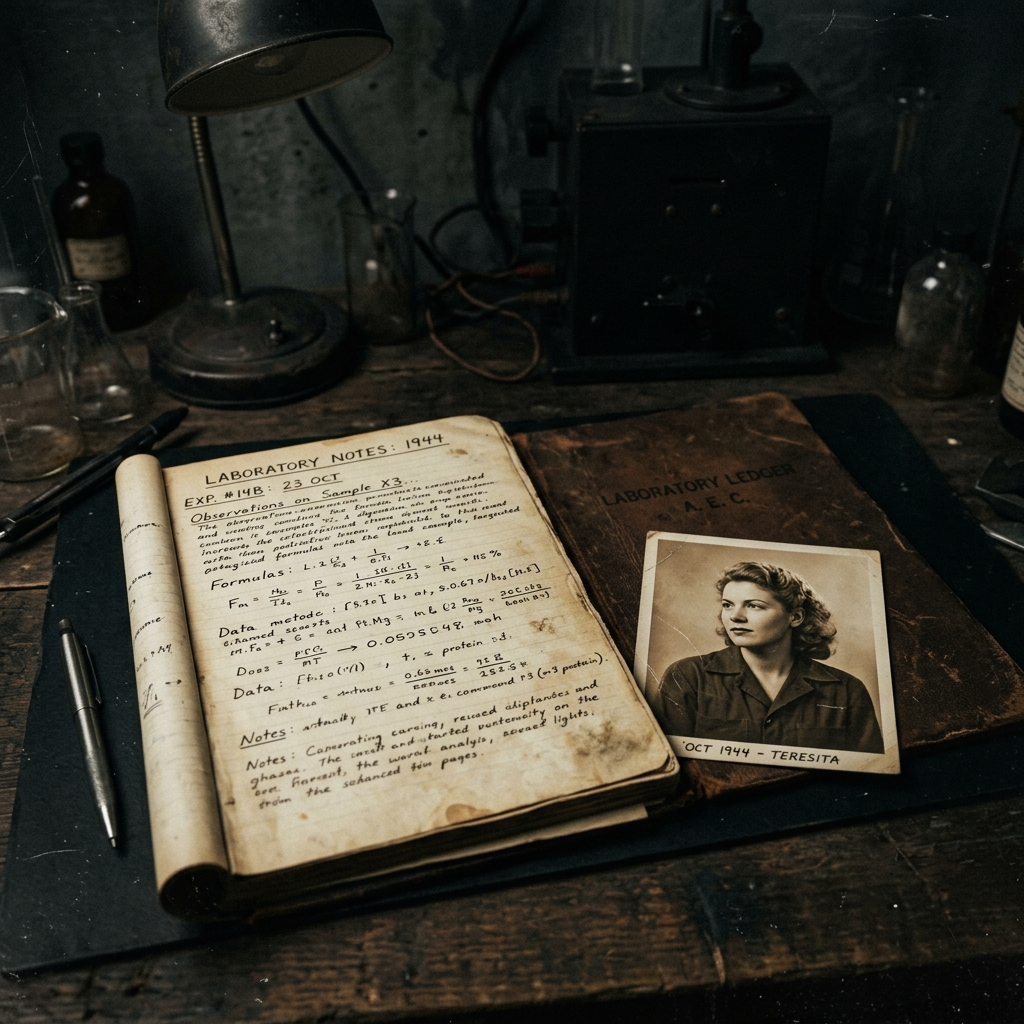
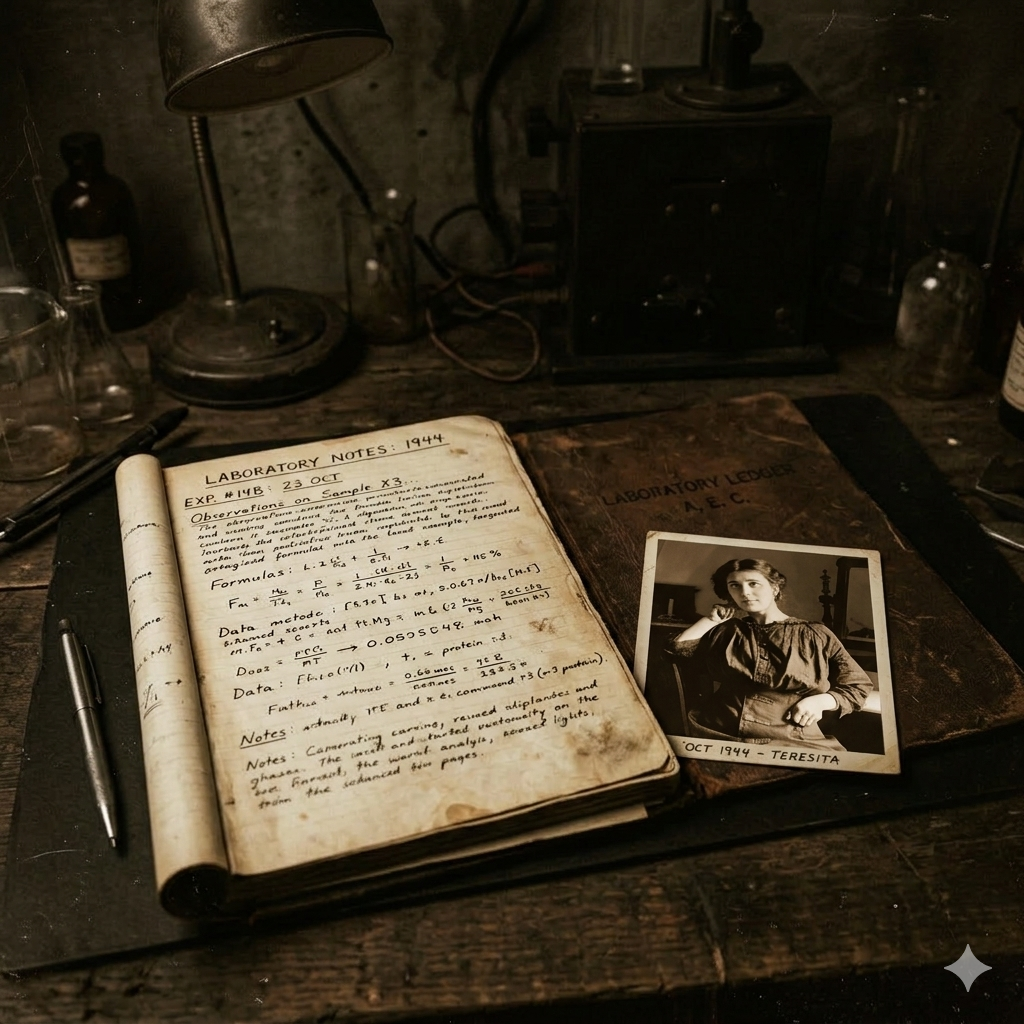
feat(history): refine history visualization and progress indicator
- Refactored StoriaShutter for static background and correct portrait mapping.
- Implemented sticky progress indicator with fade-out in ShippingRitual.
- Updated gennaro portrait mapping for Origins and Resilience archival ledger.
- Synchronized OrderConfirmation template with new archival assets.
- Adjusted z-index layering for Hero and Shutter components.

diff --git a/src/components/storia/StoriaShutter.tsx b/src/components/storia/StoriaShutter.tsx
@@ -20,126 +20,64 @@ function StoriaPhase({
   const start = i / totalPhases;
   const end = (i + 1) / totalPhases;
   
-  const titleY = useTransform(scrollYProgress, [start, end], [40, -40]);
-  const bodyY = useTransform(scrollYProgress, [start, end], [20, -20]);
-  const imgScale = useTransform(scrollYProgress, [start, end], [1.1, 1]);
-  const imgX = useTransform(scrollYProgress, [start, end], [30, -30]);
-
-  const imgClipPath = useTransform(
+  // Visibility logic for the phase
+  const visibilityOpacity = useTransform(
     scrollYProgress,
-    [start, start + 0.05],
-    [i === 0 ? "inset(0% 0 0 0)" : "inset(0 0 100% 0)", "inset(0% 0 0 0)"]
+    [Math.max(0, start - 0.05), start, end, Math.min(1, end + 0.05)],
+    [0, 1, 1, i === totalPhases - 1 ? 1 : 0]
   );
 
   const textOpacity = useTransform(
     scrollYProgress,
-    [start, start + 0.05, end - 0.05, end],
+    [start, start + 0.1, end - 0.1, end],
     [0, 1, 1, i === totalPhases - 1 ? 1 : 0]
+  );
+
+  const imgClipPath = useTransform(
+    scrollYProgress,
+    [start, start + 0.1],
+    [i === 0 ? "inset(0% 0 0 0)" : "inset(0 0 100% 0)", "inset(0% 0 0 0)"]
   );
 
   return (
     <motion.div 
       className="md:absolute inset-0 w-full md:h-full md:overflow-hidden relative mb-24 md:mb-0" 
-      style={{ zIndex: i + 10, clipPath: isMobile ? 'none' : imgClipPath }}
+      style={{ 
+        zIndex: i + 10, 
+        clipPath: isMobile ? 'none' : imgClipPath,
+        opacity: isMobile ? 1 : visibilityOpacity 
+      }}
     >
-      <div className="md:absolute inset-0 w-full h-full flex flex-col md:flex-row">
-        {/* Visual Section: Monumental Stage */}
-        <motion.div 
-          style={{ clipPath: isMobile ? 'none' : imgClipPath }}
-          className="relative h-[50vh] md:h-full overflow-hidden perspective-[1000px] w-full md:w-1/2"
-        >
-          {/* Layer 1: Atmospheric Base */}
-          <motion.div 
-            style={{ 
-              scale: isMobile ? 1 : imgScale,
-              x: isMobile ? 0 : imgX
-            }}
-            className="absolute inset-0 w-full h-full opacity-40"
-          >
-            <img 
-              src={phase.img} 
-              alt={phase.title} 
-              className="w-full h-full object-cover grayscale brightness-50" 
-            />
-          </motion.div>
-          
-          {/* Layer 2: Monumental Alchemical Fragment */}
-          <div className="absolute inset-0 z-20 flex items-center justify-center p-4 md:p-12 lg:p-16">
-            <div className="relative w-full h-full flex items-center justify-center pointer-events-none">
-              {/* Structural White Frame */}
-              <div className="p-4 md:p-8 bg-white shadow-[0_80px_160px_rgba(0,0,0,0.95)] transform -rotate-2 aspect-square md:aspect-[4/5] w-full max-w-[85%] md:max-w-none max-h-[70vh] md:max-h-[90vh]">
-                {/* Internal Mask Terminal */}
-                <div className="relative w-full h-full overflow-hidden bg-noir shadow-inner">
-                  <motion.img 
-                    animate={isMobile ? {} : { 
-                      x: ["-5%", "5%", "-5%"], 
-                      y: ["-3%", "3%", "-3%"],
-                      scale: [1, 1.05, 1],
-                    }}
-                    transition={{ 
-                      duration: 45, 
-                      repeat: Infinity, 
-                      ease: "linear" as const 
-                    }}
-                    src={phase.floatingImg} 
-                    alt="Archival Monument" 
-                    className="absolute top-1/2 left-1/2 -translate-x-1/2 -translate-y-1/2 min-w-[115%] min-h-[115%] w-auto h-auto object-cover max-w-none" 
-                  />
-                </div>
-              </div>
-              <div className="absolute inset-0 bg-primary/5 blur-[200px] rounded-full -z-10" />
-            </div>
-          </div>
+      <div className="md:absolute inset-0 w-full h-full flex flex-col md:flex-row bg-noir">
+        {/* Visual Section: STATIC BACKGROUND */}
+        <div className="relative h-[60vh] md:h-full w-full md:w-1/2 overflow-hidden bg-noir">
+          <img 
+            src={phase.floatingImg} 
+            alt={phase.title} 
+            className="w-full h-full object-cover grayscale brightness-50" 
+          />
+          <div className="absolute inset-0 bg-gradient-to-r from-transparent to-noir/80" />
+        </div>
 
-          <div className="hidden md:block absolute inset-0 bg-gradient-to-r from-transparent to-noir" />
-          <div className="md:hidden absolute inset-0 bg-gradient-to-t from-noir via-noir/40 to-transparent" />
-        </motion.div>
-
-        {/* Narrative Section: Staggered Content */}
+        {/* Narrative Section */}
         <motion.div 
           style={{ opacity: isMobile ? 1 : textOpacity }}
           className="relative h-full p-8 md:p-20 lg:p-32 pt-24 md:pt-32 flex flex-col justify-center z-30 w-full md:w-1/2 bg-noir"
         >
           <div className="mb-8">
-            <motion.span 
-              initial={isMobile ? { opacity: 1, x: 0 } : { opacity: 0, x: -20 }}
-              whileInView={{ opacity: 1, x: 0 }}
-              viewport={{ once: true, margin: "-100px" }}
-              transition={{ duration: isMobile ? 0 : 0.6 }}
-              style={{ y: isMobile ? 0 : bodyY }} 
-              className="text-primary font-heading text-xl tracking-[0.4em] uppercase block mb-6 border-l-2 border-primary pl-6"
-            >
+            <span className="text-primary font-heading text-xl tracking-[0.4em] uppercase block mb-6 border-l-2 border-primary pl-6">
               {phase.year}
-            </motion.span>
-            <motion.h2 
-              initial={isMobile ? { opacity: 1, y: 0 } : { opacity: 0, y: 30 }}
-              whileInView={{ opacity: 1, y: 0 }}
-              viewport={{ once: true, margin: "-100px" }}
-              transition={{ duration: isMobile ? 0 : 0.8, ease: "easeOut" as const }}
-              style={{ y: isMobile ? 0 : titleY }} 
-              className="text-white font-heading text-6xl md:text-8xl lg:text-[10rem] uppercase tracking-tighter leading-[0.9] md:leading-[0.7] italic mt-8 mb-10"
-            >
+            </span>
+            <h2 className="text-white font-heading text-6xl md:text-8xl long:text-9xl uppercase tracking-tighter leading-[0.9] md:leading-[0.7] italic mt-8 mb-10">
               {phase.title}
-            </motion.h2>
-            <motion.h3 
-              initial={isMobile ? { opacity: 1 } : { opacity: 0 }}
-              whileInView={{ opacity: 1 }}
-              transition={{ duration: isMobile ? 0 : 0.3 }}
-              style={{ y: isMobile ? 0 : bodyY }} 
-              className="text-white/40 font-heading text-2xl md:text-3xl uppercase tracking-widest"
-            >
+            </h2>
+            <h3 className="text-white/40 font-heading text-2xl md:text-3xl uppercase tracking-widest">
               {phase.subtitle}
-            </motion.h3>
+            </h3>
           </div>
-          <motion.p 
-            initial={isMobile ? { opacity: 1 } : { opacity: 0 }}
-            whileInView={{ opacity: 1 }}
-            transition={{ duration: isMobile ? 0 : 0.3 }}
-            style={{ y: isMobile ? 0 : bodyY }} 
-            className="text-white/70 font-body text-sm md:text-lg lg:text-xl leading-relaxed tracking-wide italic max-w-2xl mt-8"
-          >
+          <p className="text-white/70 font-body text-sm md:text-lg lg:text-xl leading-relaxed tracking-wide italic max-w-2xl mt-8">
             {phase.description}
-          </motion.p>
+          </p>
           <div className="mt-12 md:mt-20 flex items-center gap-12 opacity-20">
             <div className="h-px flex-1 bg-white" />
             <span className="font-heading text-[10px] tracking-[0.6em] text-white uppercase whitespace-nowrap">
@@ -175,31 +113,28 @@ export default function StoriaShutter() {
     {
       id: "origins",
       ...t.storia.phases.origins,
-      img: "/images/storia/storia_origins_1882_1775937746086.png",
-      floatingImg: "/images/storia/Villacidro-Murgia.jpg",
+      floatingImg: "/images/storia/gennaro_origins.png",
       archiveLabel: t.storia.archive
     },
     {
       id: "giallo",
       ...t.storia.phases.giallo,
-      img: "/images/storia/storia_zafferano_gold_1775937759636.png",
       floatingImg: "/images/storia/etichetta_villacidro_murgia.webp",
       archiveLabel: t.storia.archive
     },
     {
       id: "resilience",
       ...t.storia.phases.resilience,
-      img: "/images/storia/storia_resilience_ledger_1775937773299.png",
-      floatingImg: "/images/storia/image.webp",
+      floatingImg: "/images/storia/storia_resilience_ledger_1775937773299.png",
       archiveLabel: t.storia.archive
     }
   ];
 
   return (
-    <div ref={containerRef} className="relative h-auto md:h-[600vh] bg-noir">
+    <div ref={containerRef} className="relative h-auto md:h-[600vh] bg-noir z-20">
       {hasMounted && (
-        <div className="md:sticky top-0 md:h-screen w-full md:overflow-hidden">
-          <div className="flex flex-col md:block">
+        <div className="md:sticky top-0 md:h-screen w-full md:overflow-hidden bg-noir">
+          <div className="flex flex-col md:block h-full">
             {HISTORY_PHASES.map((phase, i) => (
               <StoriaPhase 
                 key={phase.id} 

diff --git a/src/components/storia/ShippingRitual.tsx b/src/components/storia/ShippingRitual.tsx
@@ -1,6 +1,6 @@
 "use client";
 
-import { motion, useScroll, useTransform } from "framer-motion";
+import { motion, useScroll, useTransform, useMotionValueEvent } from "framer-motion";
 import { useRef, useState, useEffect } from "react";
 import { useTranslation } from "@/context/LanguageContext";
 
@@ -33,6 +33,7 @@ export default function ShippingRitual() {
   ];
   
   const [isMobile, setIsMobile] = useState(false);
+  const [activeIdx, setActiveIdx] = useState(0);
 
   useEffect(() => {
     const checkMobile = () => setIsMobile(window.innerWidth < 768);
@@ -46,8 +47,17 @@ export default function ShippingRitual() {
     offset: ["start start", "end end"]
   });
 
+  // Track active index for the sticky progress indicator
+  useMotionValueEvent(scrollYProgress, "change", (latest) => {
+    const idx = Math.min(Math.floor(latest * 3), 2);
+    if (idx !== activeIdx) setActiveIdx(idx);
+  });
+
   // Kinetic Horizontal Traversal: Map vertical scroll to horizontal x translation
   const x = useTransform(scrollYProgress, [0, 1], ["0%", "-66.66%"]);
+  
+  // Fade out indicator when section ends
+  const indicatorOpacity = useTransform(scrollYProgress, [0, 0.05, 0.95, 1], [0, 1, 1, 0]);
 
   if (isMobile) {
     return (
@@ -102,8 +112,18 @@ export default function ShippingRitual() {
     <section ref={containerRef} className="relative h-[300vh] bg-noir">
       <div className="sticky top-0 h-screen w-full overflow-hidden">
         
-        {/* Header Ritual - Label Liquidated */}
-        <div className="absolute top-12 left-1/2 -translate-x-1/2 z-50 text-center" />
+        {/* Fractional Navigation Gauge: Sticky & Fade-out */}
+        <motion.div 
+          style={{ opacity: indicatorOpacity }}
+          className="absolute top-24 left-1/2 -translate-x-1/2 flex items-center gap-4 z-[100]"
+        >
+          {STAGES.map((_, idx) => (
+            <div 
+              key={idx}
+              className={`h-1 transition-all duration-500 shadow-sm ${activeIdx === idx ? "w-12 bg-primary" : "w-4 bg-white/30"}`}
+            />
+          ))}
+        </motion.div>
 
         {/* Horizontal Manifestation Vessel */}
         <motion.div style={{ x }} className="flex h-full w-[300vw]">
@@ -161,16 +181,6 @@ export default function ShippingRitual() {
                   <div className="absolute inset-0 bg-primary/5 mix-blend-overlay" />
                 </motion.div>
               </div>
-
-              {/* Fractional Navigation Gauge: Moved to Top for Visibility */}
-              <div className="absolute top-12 left-1/2 -translate-x-1/2 flex items-center gap-4 z-[60]">
-                {STAGES.map((_, idx) => (
-                  <div 
-                    key={idx}
-                    className={`h-1 transition-all duration-500 shadow-sm ${i === idx ? "w-12 bg-primary" : "w-4 bg-white/30"}`}
-                  />
-                ))}
-              </div>
             </div>
           ))}
         </motion.div>
@@ -178,3 +188,4 @@ export default function ShippingRitual() {
     </section>
   );
 }
+

diff --git a/src/templates/OrderConfirmation.html b/src/templates/OrderConfirmation.html
@@ -84,7 +84,7 @@
     <!-- MAIN HERO RITUAL (EDGE-TO-EDGE) -->
     <table width="100%" border="0" cellpadding="0" cellspacing="0" style="background-color: #090909;">
       <tr>
-        <td align="center" background="https://murgia-liquori.vercel.app/images/storia/storia_origins_1882_1775937746086.png" style="background-image: url('https://murgia-liquori.vercel.app/images/storia/storia_origins_1882_1775937746086.png'); background-size: cover; background-position: center;">
+        <td align="center" background="https://murgia-liquori.vercel.app/images/storia/gennaro_origins.png" style="background-image: url('https://murgia-liquori.vercel.app/images/storia/gennaro_origins.png'); background-size: cover; background-position: center;">
           <!-- Archival Gray Overlay -->
           <table width="100%" border="0" cellpadding="0" cellspacing="0" style="background-color: rgba(4,4,4,0.88);">
             <tr>

diff --git a/src/components/storia/StoriaHero.tsx b/src/components/storia/StoriaHero.tsx
@@ -30,7 +30,7 @@ export default function StoriaHero() {
     : { delay: 0.5, duration: 1 };
 
   return (
-    <div ref={containerRef} className={`relative ${isMobile ? 'h-[120vh]' : 'h-[200vh]'} bg-noir`}>
+    <div ref={containerRef} className={`relative ${isMobile ? 'h-[120vh]' : 'h-[200vh]'} bg-noir z-10`}>
       <div className="sticky top-0 h-screen w-full flex items-center justify-center overflow-hidden">
         {/* Archival Background Photo */}
         <div className="absolute inset-0 z-0">
